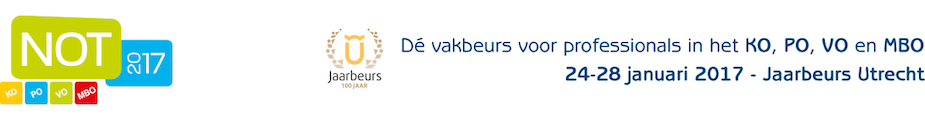
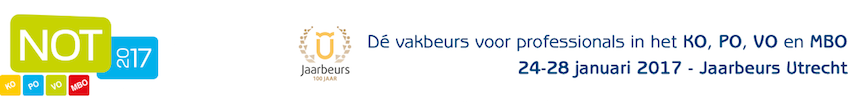
ja

diff --git a/_posts/2017-01-17-otomori-op-de-NOT-onderwijsbeurs-2017.md b/_posts/2017-01-17-otomori-op-de-NOT-onderwijsbeurs-2017.md
@@ -1,6 +1,6 @@
 ---
 layout: post
-title:  "not onderwijsbeurs 2017"
+title:  "NOT Onderwijsbeurs 2017"
 date:   2017-01-17 19:40:00 -0100
 categories: otomori update
 ---
@@ -8,7 +8,7 @@ categories: otomori update
 Otomori is van 24-28 januari te testen op de <a href="http://www.not-online.nl/nl-NL/Bezoeker.aspx?gclid=CPjByr_rydECFRa3GwodK9kGPg" target="_blank">NOT Onderwijsbeurs</a> in Jaarbeurs Utrecht!
 
 <a href="http://www.not-online.nl/nl-NL/Bezoeker.aspx?gclid=CPjByr_rydECFRa3GwodK9kGPg" target="_blank">
-<img border="0" alt="NOT" src="/NOT.png" width="925" height="120">
+<img border="0" alt="NOT" src="/NOT.png" width="848" height="110">
 </a>
 
-[comment]: <> (![NOT](/NOT.png){:height="925px" width="120px"})
+[comment]: <> (![NOT](/NOT.png){:height="848px" width="110px"})
